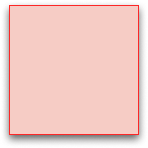
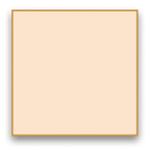
先提交一波。

Changed region(s): [[0.027, 0.027, 0.973, 0.9459]]

diff --git a/miniprogram/utils/no-fly-zones.js b/miniprogram/utils/no-fly-zones.js
@@ -138,13 +138,21 @@ function toGcjPoint(lng, lat) {
   return { latitude, longitude };
 }
 
-function buildNoFlyZoneGraphics(zones = []) {
+function buildNoFlyZoneGraphics(zones = [], options = {}) {
   const polygons = [];
   const circles = [];
   const shapes = [];
   if (!Array.isArray(zones)) {
     return { polygons, circles, shapes };
   }
+  const baseColor = normalizeHex(options.color || DEFAULT_COLOR);
+  const fillOpacity = Object.prototype.hasOwnProperty.call(options, "fillOpacity")
+    ? clampColorOpacity(options.fillOpacity)
+    : FILL_OPACITY;
+  const strokeOpacity = Object.prototype.hasOwnProperty.call(options, "strokeOpacity")
+    ? clampColorOpacity(options.strokeOpacity)
+    : STROKE_OPACITY;
+  const strokeWidth = Number.isFinite(options.strokeWidth) ? options.strokeWidth : STROKE_WIDTH;
 
   zones.forEach((zone) => {
     const type = String(zone?.type || "").toUpperCase();
@@ -158,9 +166,9 @@ function buildNoFlyZoneGraphics(zones = []) {
             longitude: gcj.longitude,
             latitude: gcj.latitude,
             radius,
-            color: colorWithAlpha(DEFAULT_COLOR, STROKE_OPACITY),
-            fillColor: colorWithAlpha(DEFAULT_COLOR, FILL_OPACITY),
-            strokeWidth: STROKE_WIDTH
+            color: colorWithAlpha(baseColor, strokeOpacity),
+            fillColor: colorWithAlpha(baseColor, fillOpacity),
+            strokeWidth
           });
           shapes.push({
             type: "circle",
@@ -182,9 +190,9 @@ function buildNoFlyZoneGraphics(zones = []) {
         if (gcjPoints.length >= 3) {
           polygons.push({
             points: gcjPoints,
-            strokeColor: colorWithAlpha(DEFAULT_COLOR, STROKE_OPACITY),
-            fillColor: colorWithAlpha(DEFAULT_COLOR, FILL_OPACITY),
-            strokeWidth: STROKE_WIDTH
+            strokeColor: colorWithAlpha(baseColor, strokeOpacity),
+            fillColor: colorWithAlpha(baseColor, fillOpacity),
+            strokeWidth
           });
           shapes.push({
             type: "polygon",
@@ -205,9 +213,9 @@ function buildNoFlyZoneGraphics(zones = []) {
         if (gcjPoints.length >= 3) {
           polygons.push({
             points: gcjPoints,
-            strokeColor: colorWithAlpha(DEFAULT_COLOR, STROKE_OPACITY),
-            fillColor: colorWithAlpha(DEFAULT_COLOR, FILL_OPACITY),
-            strokeWidth: STROKE_WIDTH
+            strokeColor: colorWithAlpha(baseColor, strokeOpacity),
+            fillColor: colorWithAlpha(baseColor, fillOpacity),
+            strokeWidth
           });
         }
       });

diff --git a/miniprogram/pages/markers/pin-picker/index.js b/miniprogram/pages/markers/pin-picker/index.js
@@ -46,6 +46,9 @@ const TYPE_SECTIONS = [
 ];
 
 const DEFAULT_TYPE = TYPE_SECTIONS[0].options[0];
+const PIN_SHAPE_COLOR = "#D3A05B";
+const PIN_SHAPE_STROKE = "#D3A05BF2";
+const PIN_SHAPE_FILL = "#D3A05B4D";
 
 function normalizeCoord(value) {
   const num = Number(value);
@@ -471,7 +474,7 @@ Page({
     if (confirmedPoints.length >= 2) {
       lines.push({
         points: confirmedPoints,
-        color: "#0f172a",
+        color: PIN_SHAPE_COLOR,
         width: 6,
         arrowLine: false,
         dottedLine: false
@@ -480,7 +483,7 @@ Page({
     if (confirmedPoints.length >= 1 && preview) {
       lines.push({
         points: [confirmedPoints[confirmedPoints.length - 1], preview],
-        color: "#111827",
+        color: PIN_SHAPE_COLOR,
         width: 4,
         dottedLine: true
       });
@@ -492,8 +495,8 @@ Page({
       ? [
         {
           points: polygonPoints,
-          fillColor: "#DE43294D",
-          strokeColor: "#DE4329F2",
+          fillColor: PIN_SHAPE_FILL,
+          strokeColor: PIN_SHAPE_STROKE,
           strokeWidth: 1
         }
       ]
@@ -523,8 +526,8 @@ Page({
     let circles = [];
     let markers = [];
 
-    const fillColor = "#DE43294D";
-    const strokeColor = "#DE4329F2";
+    const fillColor = PIN_SHAPE_FILL;
+    const strokeColor = PIN_SHAPE_STROKE;
     const strokeWidth = 1;
 
     if (typeId === "AREA_POLYGON") {

diff --git a/miniprogram/pages/map/map.js b/miniprogram/pages/map/map.js
@@ -3273,7 +3273,7 @@ Page({
       }
       const zone = this.buildPinPreviewZone(pin.shape);
       if (!zone) return;
-      const graphics = buildNoFlyZoneGraphics([zone]);
+      const graphics = buildNoFlyZoneGraphics([zone], { color: "#D3A05B" });
       if (Array.isArray(graphics.polygons)) {
         polygons.push(...graphics.polygons);
       }
